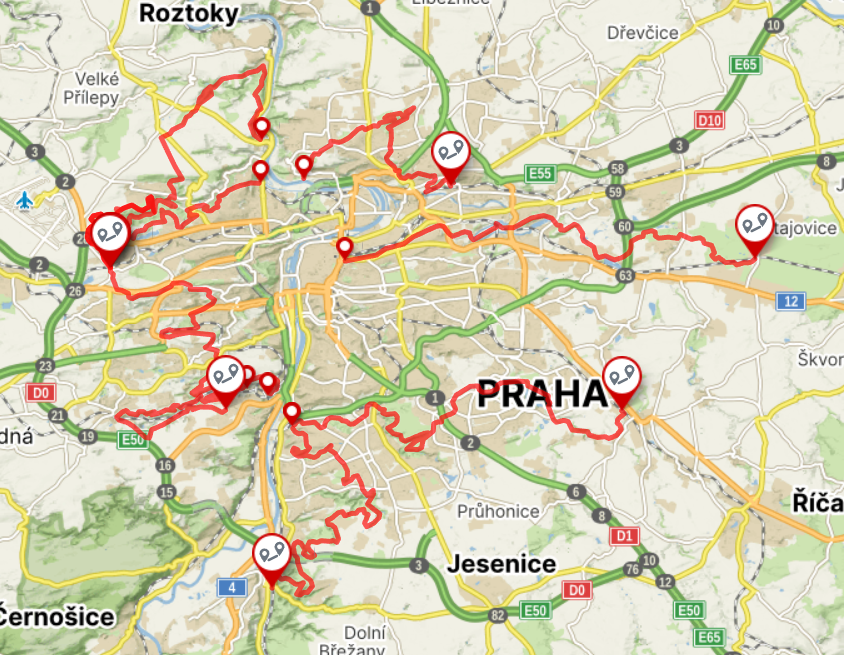
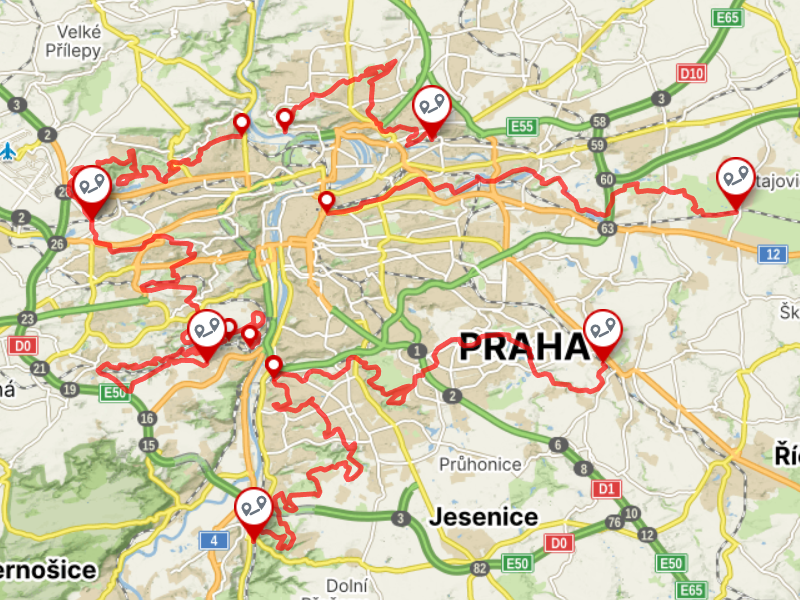
Remove trail 'Sunrose' (#54)

diff --git a/docusaurus.config.js b/docusaurus.config.js
@@ -111,10 +111,6 @@ const config = {
                 label: "Shark-A",
                 to: 'trails/shark-a',
               },
-              {
-                label: "Sunrose",
-                to: 'trails/sunrose',
-              },
             ],
           },
           {

diff --git a/src/components/TrailRouteLink/index.tsx b/src/components/TrailRouteLink/index.tsx
@@ -22,8 +22,6 @@ function GetGarminId(id: string) {
       return "211858322";
     case "shark-a":
       return "211895409";
-    case "sunrose":
-      return "211914796";
     default:
       throw new Error();
   }
